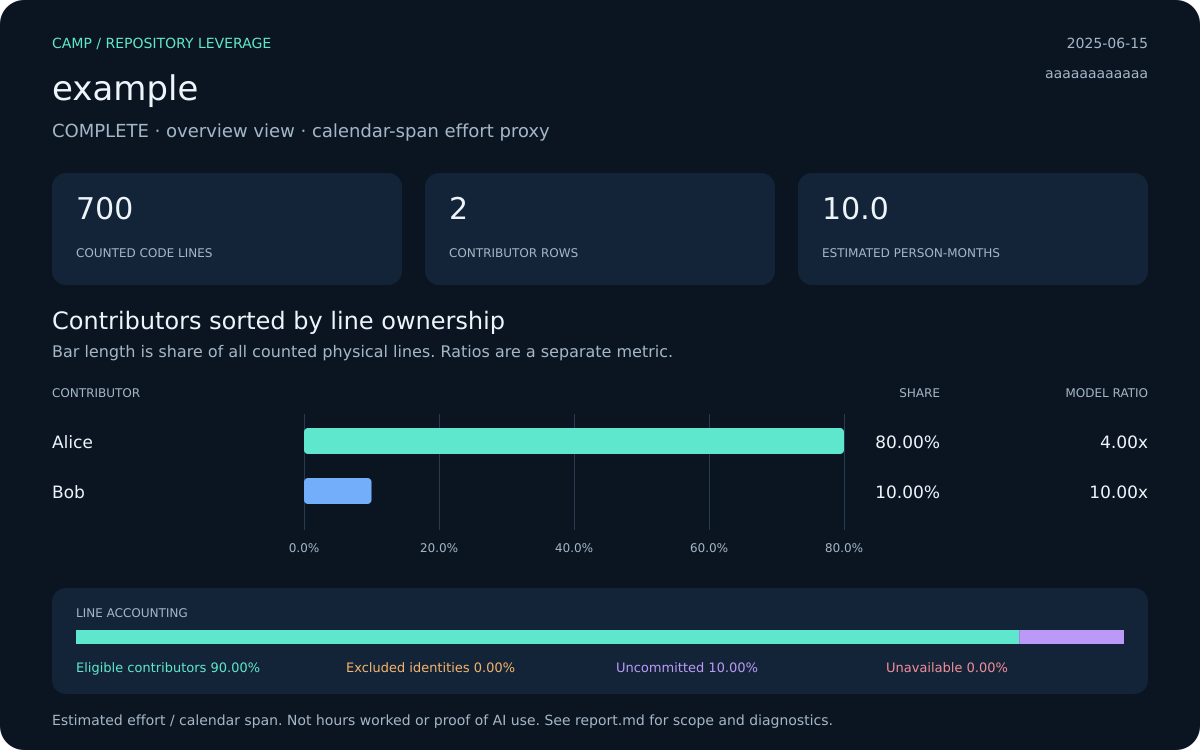
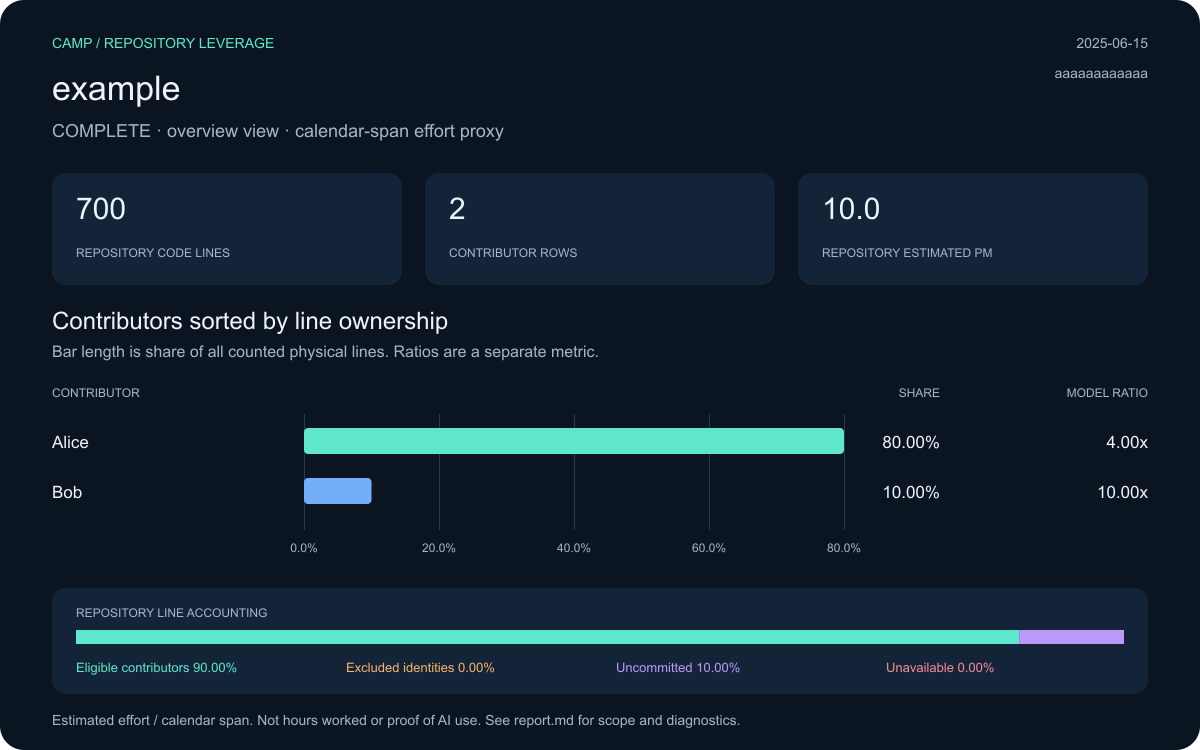
[obey-campaign:8deed8b4] fix: present summary and personal leverage as score reports
Clarify collection modes and saved-report rendering after a real-repository trial.

diff --git a/skills/leverage/scripts/render.py b/skills/leverage/scripts/render.py
@@ -31,10 +31,13 @@ def ordered(data, sort):
 
 def figure(data, theme, sort, top):
     rows = ordered(data, sort)[:min(top, 8)]
-    height = 650 + 50 * max(1, len(rows))
+    collected = data['contributors_collected']
+    height = 650 + (50 * max(1, len(rows)) if collected else 0)
+    description = (f"Sorted by {sort}. Bars encode physical-line share, not model ratio. {len(data['contributors'])} rows collected."
+                   if collected else f"{data['view'].capitalize()} score. Contributor rows were not collected; source totals and accounting cover the repository.")
     parts = [f'<svg xmlns="http://www.w3.org/2000/svg" width="1200" height="{height}" viewBox="0 0 1200 {height}" role="img" aria-labelledby="title desc">',
              '<title id="title">' + html.escape(data['repository'] + ' leverage report: ' + data['status']) + '</title>',
-             '<desc id="desc">' + html.escape(f"Sorted by {sort}. Bars encode physical-line share, not model ratio. {len(data['contributors'])} rows collected; null ratios are unavailable. Status {data['status']}.") + '</desc>',
+             '<desc id="desc">' + html.escape(f"{description} Null ratios are unavailable. Status {data['status']}.") + '</desc>',
              f'<rect width="1200" height="{height}" rx="24" fill="{theme["background"]}"/>']
 
     def text(x, y, value, size=18, color='text', anchor='start'):
@@ -50,29 +53,41 @@ def figure(data, theme, sort, top):
     text(1148, 78, (data['revision'] or 'unborn')[:12], 14, 'muted', 'end')
     text(52, 137, f"{data['status'].upper()} · {data['view']} view · calendar-span effort proxy", 18, 'muted')
     summary = data['summary']
-    cards = [(f"{summary['code_lines']:,}", 'COUNTED CODE LINES'),
-             (str(len(data['contributors'])) if data['contributors_collected'] else 'not collected', 'CONTRIBUTOR ROWS'),
-             (fmt(summary['estimated_person_months'], 1), 'ESTIMATED PERSON-MONTHS')]
+    score = data['score']
+    score_label = 'Personal' if data['view'] == 'personal' else 'Repository'
+    middle = ((str(len(data['contributors'])), 'CONTRIBUTOR ROWS') if collected else
+              (fmt(score['full_leverage'], suffix='x'), score_label.upper() + ' RATIO'))
+    cards = [(f"{summary['code_lines']:,}", 'REPOSITORY CODE LINES'), middle,
+             (fmt(summary['estimated_person_months'], 1), 'REPOSITORY ESTIMATED PM')]
     for x, (value, label) in zip((52, 425, 798), cards):
         rect(x, 173, 350, 112, 'panel', 14)
         text(x + 24, 219, value, 30)
         text(x + 24, 257, label, 12, 'muted')
-    text(52, 329, f"Contributors sorted by {'line ownership' if sort == 'ownership' else 'model ratio'}", 24)
-    text(52, 357, 'Bar length is share of all counted physical lines. Ratios are a separate metric.', 16, 'muted')
-    text(52, 397, 'CONTRIBUTOR', 12, 'muted')
-    text(940, 397, 'SHARE', 12, 'muted', 'end')
-    text(1148, 397, 'MODEL RATIO', 12, 'muted', 'end')
     maximum = max((r['share'] for r in rows), default=0)
     axis = min(1, max(.1, math.ceil(maximum * 10) / 10))
-    bottom = 430 + 50 * max(1, len(rows))
-    for tick in range(5):
-        x = 304 + tick * 540 / 4
-        rect(x, 414, 1, bottom - 414, 'grid')
-        text(x, bottom + 22, f'{axis * tick / 4:.1%}', 12, 'muted', 'middle')
-    if not rows:
-        text(52, 448, 'No contributor rows collected' if not data['contributors_collected'] else 'No surviving attributable lines', 18, 'muted')
-        if data['score']:
-            text(52, 475, 'Selected score: ' + fmt(data['score']['full_leverage'], suffix='x'), 18)
+    bottom = 430
+    if collected:
+        bottom += 50 * max(1, len(rows))
+        text(52, 329, f"Contributors sorted by {'line ownership' if sort == 'ownership' else 'model ratio'}", 24)
+        text(52, 357, 'Bar length is share of all counted physical lines. Ratios are a separate metric.', 16, 'muted')
+        text(52, 397, 'CONTRIBUTOR', 12, 'muted')
+        text(940, 397, 'SHARE', 12, 'muted', 'end')
+        text(1148, 397, 'MODEL RATIO', 12, 'muted', 'end')
+        if rows:
+            for tick in range(5):
+                x = 304 + tick * 540 / 4
+                rect(x, 414, 1, bottom - 414, 'grid')
+                text(x, bottom + 22, f'{axis * tick / 4:.1%}', 12, 'muted', 'middle')
+        else:
+            text(52, 448, 'No surviving attributable lines', 18, 'muted')
+    else:
+        text(52, 329, score_label + ' score details', 24)
+        text(52, 367, 'Effort proxy: ' + fmt(score['actual_person_months']) + ' person-months', 20)
+        if data['matched_identities'] is not None:
+            text(52, 399, f"Matched author identities: {data['matched_identities']}", 18, 'muted')
+        else:
+            text(52, 399, 'Read report.md for the recorded effort basis.', 18, 'muted')
+        text(52, 431, 'Contributor rows were not collected. Source totals and accounting cover the repository.', 16, 'muted')
     for i, row in enumerate(rows):
         y = 445 + 50 * i
         name = row['name']
@@ -82,7 +97,7 @@ def figure(data, theme, sort, top):
         text(1148, y + 3, fmt(row['leverage'], suffix='x'), 17, anchor='end')
     panel = bottom + 58
     rect(52, panel, 1096, 106, 'panel', 14)
-    text(76, panel + 29, 'LINE ACCOUNTING', 12, 'muted')
+    text(76, panel + 29, 'REPOSITORY LINE ACCOUNTING', 12, 'muted')
     x = 76
     colors = ['primary', 'excluded', 'uncommitted', 'unavailable']
     for key, color in zip(BUCKETS, colors):
@@ -104,19 +119,21 @@ def markdown(data, sort, top):
              '![Repository leverage and contributor ownership](assets/contributors.svg)', '',
              '| Measurement | Result |', '| :--- | ---: |',
              f"| Files | {s['files']:,} |", f"| Code lines | {s['code_lines']:,} |",
-             f"| Physical lines | {s['lines']:,} |", f"| Estimated effort (PM) | {fmt(s['estimated_person_months'])} |"]
+             f"| Physical lines | {s['lines']:,} |", f"| Repository estimated effort (PM) | {fmt(s['estimated_person_months'])} |"]
     if data['score']:
         lines += [f"| {'Personal' if data['view']=='personal' else 'Repository'} ratio | {fmt(data['score']['full_leverage'], suffix='x')} |",
+                  f"| Selected effort proxy (PM) | {fmt(data['score']['actual_person_months'])} |",
                   f"| Effort basis | {mdtext(data['effort_method'])} |"]
     if data['matched_identities'] is not None:
         lines += [f"| Matched author identities | {data['matched_identities']} |"]
-    lines += ['', '## Contributors', '', f"Sort: {sort}. Showing up to {top} of {len(data['contributors'])} collected rows.", '',
-              '| Contributor | Physical lines | Share | Est. PM | Span PM | Ratio |',
-              '| :--- | ---: | ---: | ---: | ---: | ---: |']
-    for row in ordered(data, sort)[:top]:
-        lines.append(f"| {mdtext(row['name'])} | {row['lines']:,} | {row['share']:.2%} | {fmt(row['estimated_person_months'])} | {fmt(row['elapsed_person_months'])} | {fmt(row['leverage'], suffix='x')} |")
+    if data['contributors_collected']:
+        lines += ['', '## Contributors', '', f"Sort: {sort}. Showing up to {top} of {len(data['contributors'])} collected rows.", '',
+                  '| Contributor | Physical lines | Share | Est. PM | Span PM | Ratio |',
+                  '| :--- | ---: | ---: | ---: | ---: | ---: |']
+        for row in ordered(data, sort)[:top]:
+            lines.append(f"| {mdtext(row['name'])} | {row['lines']:,} | {row['share']:.2%} | {fmt(row['estimated_person_months'])} | {fmt(row['elapsed_person_months'])} | {fmt(row['leverage'], suffix='x')} |")
     if not data['contributors_collected']:
-        lines += ['', 'Contributor data was not collected for this view.']
+        lines += ['', 'Contributor rows were not collected for this view; the CSV contains its header only. Source totals and line accounting cover the whole repository. Use overview mode for a contributor breakdown.']
     elif not data['contributors_complete']:
         lines += ['', f"Input was filtered: {data['omitted_contributors']} contributor rows were omitted by Camp. CSV contains the collected rows only."]
     lines += ['', '[Contributor CSV](data/contributors.csv) · [Snapshot metadata](data/snapshot.json)', '',

diff --git a/tests/test_skill.py b/tests/test_skill.py
@@ -205,7 +205,50 @@ class ReportTests(unittest.TestCase):
                                     'buckets': {key: {'lines': 0, 'share': 0, 'estimated_person_months': 0} for key in render.BUCKETS}}
         repo['report']['scope'].update(files=0, lines=0, code_lines=0, estimated_person_months=0)
         empty = normalize(repository=repo)
-        self.assertIn('No contributor rows collected', render.figure(empty, json.loads((SKILL/'assets/theme.json').read_text())['dark'], 'ownership', 10))
+        self.assertIn('EMPTY', render.figure(empty, json.loads((SKILL/'assets/theme.json').read_text())['dark'], 'ownership', 10))
+
+    def test_score_only_views_display_selected_score_without_contributor_axes(self):
+        import xml.etree.ElementTree as ET
+        theme = json.loads((SKILL/'assets/theme.json').read_text())['dark']
+        repo, _ = fixture()
+        personal = copy.deepcopy(repo)
+        personal['report']['matched_author_ids'] = ['alice@private.test']
+        for data in (normalize(repository=repo), normalize(personal=personal)):
+            for score in (4, None):
+                data['score']['full_leverage'] = score
+                svg = render.figure(data, theme, 'ownership', 10)
+                texts = [node.text for node in ET.fromstring(svg).findall('{http://www.w3.org/2000/svg}text')]
+                self.assertIn('4.00x' if score else 'unavailable', texts)
+                self.assertIn('Effort proxy: 2.50 person-months', texts)
+                self.assertIn('10.0', texts)  # Repository estimate stays separate from the selected score.
+                self.assertNotIn('SHARE', texts)
+                self.assertNotIn('MODEL RATIO', texts)
+                if data['view'] == 'personal':
+                    self.assertIn('Matched author identities: 1', texts)
+                self.assertNotIn('| Contributor |', render.markdown(data, 'ownership', 10))
+
+    def test_offline_restyle_preserves_all_measurements_without_external_commands(self):
+        import csv
+        repo, authors = fixture()
+        with tempfile.TemporaryDirectory() as temp:
+            root = Path(temp)
+            for name, source in (('repository', repo), ('contributors', authors)):
+                (root/f'{name}.json').write_text(json.dumps(source))
+            render.write_bundle(normalize(repo, authors), root/'original')
+            result = subprocess.run([
+                sys.executable, str(SKILL/'scripts/render.py'),
+                '--repository', str(root/'repository.json'), '--contributors', str(root/'contributors.json'),
+                '--output', str(root/'light'), '--theme', 'light', '--sort', 'ratio',
+            ], env={**os.environ, 'PATH': str(root/'no-tools')}, capture_output=True, text=True)
+            self.assertEqual(result.returncode, 0, result.stderr)
+            self.assertEqual((root/'original/data/snapshot.json').read_bytes(), (root/'light/data/snapshot.json').read_bytes())
+            def rows(name):
+                with (root/name/'data/contributors.csv').open() as stream:
+                    return list(csv.DictReader(stream))
+            original, light = rows('original'), rows('light')
+            self.assertEqual([r['name'] for r in light], ['Bob', 'Alice'])
+            self.assertEqual(sorted(original, key=lambda r: r['row_id']), sorted(light, key=lambda r: r['row_id']))
+            self.assertFalse((root/'light/raw').exists())
 
     def test_table_csv_svg_and_png_from_installed_copy(self):
         repo, authors = fixture()

diff --git a/README.md b/README.md
@@ -39,6 +39,14 @@ Ask your agent:
 
 The default bundle includes Markdown, the full contributor CSV, portable snapshot metadata, SVG and original raw captures. PNG is optional. Bars show physical-line ownership; ratio values remain a separate metric.
 
+| Request | Mode | What it collects |
+| :--- | :--- | :--- |
+| Repository score and contributor chart | `overview` (default) | Summary and all attributable contributor rows |
+| Repository score only | `summary` | Summary; no contributor rows |
+| One author's score | `personal --author EMAIL` | Selected score and matched-identity count; no contributor rows |
+
+Personal and summary images show the selected ratio and effort proxy. Source counts, estimated repository effort and line accounting still describe the whole repository; their CSV is header-only. Personal selectors can match several identities, so inspect the matched count before comparing with one contributor row. Contributor rows represent surviving line owners, not everyone who ever committed.
+
 You can call the scripts directly:
 
 ```sh
@@ -47,10 +55,14 @@ python3 skills/leverage/scripts/collect.py /path/to/repo --mode personal --autho
 python3 skills/leverage/scripts/collect.py /path/to/repo --mode summary --people 2
 python3 skills/leverage/scripts/render.py \
   --repository /path/to/summary.json --contributors /path/to/contributors.json \
-  --output /path/to/new-report --theme light --png
+  --output /path/to/new-report --theme light --sort ratio --png
 ```
 
 The default destination is a new sibling directory of the analyzed Git root. Use `--output` to choose another new directory outside that root. No source edits, camp creation, repository linking, commits or uploads occur. Use saved JSON to change styling without rescanning. Exit 2 means a partial report was written; inspect its diagnostics.
+
+After a default run, the saved inputs are `<report>/raw/repository.json` and `<report>/raw/contributors.json`. Pass those to `render.py` for another theme or sort order; it does not invoke Camp, Git, scc or the installer. Omit `--png` to render without any external commands. The table shows up to `--top` rows (10 by default), the SVG shows up to eight, and the CSV retains every collected row. Sorting by ratio keeps bar lengths tied to physical-line share.
+
+To rerender a personal report, use `--personal <report>/raw/personal.json`. For a summary-only report, use `--repository <report>/raw/repository.json` without `--contributors`. Use inputs from the same snapshot when combining files.
 
 ## Dependencies and bootstrap
 

diff --git a/skills/leverage/SKILL.md b/skills/leverage/SKILL.md
@@ -19,6 +19,8 @@ The default collects a repository summary and full contributor breakdown, then w
 
 Select `--mode summary` for only repository scoring, or `--mode personal --author EMAIL` for an author selection. `--people N` overrides summary team size. `--top N`, `--sort ownership|ratio` and `--theme dark|light` control presentation; raw rows remain complete. Prefer ownership order unless the user asks otherwise. Personal selectors can match several identities; report that count.
 
+Summary and personal modes show the selected score without collecting contributor rows; their CSV is header-only. Repository totals/accounting still cover the whole source tree. Use the default overview when the user wants contributor comparisons. Tables show up to `--top` rows; the SVG shows up to eight; CSV includes all collected rows.
+
 Collection bootstraps Festival when needed via `scripts/ensure-festival.sh`. Show its stderr install/update notices to the user. It verifies checksums, preserves unmanaged tools, returns the verified Camp path and does not create a camp or link the repo. Use [installation.md](references/installation.md) for missing dependencies or ownership/platform failures. To inspect without installing, run `bash "<skill-dir>/scripts/ensure-festival.sh" --check`. An explicitly supplied `--camp /absolute/path` skips bootstrap after a capability check.
 
 Git, Python 3.11+ and scc are required; provide the relevant missing-tool instruction or perform an already-authorized install. Do not install another Python distribution as a side effect. No API key or image-generation model is needed.
@@ -34,6 +36,8 @@ python3 "<skill-dir>/scripts/render.py" \
 ```
 
 Use `--personal` for a saved personal report. A new theme/top-N uses saved data. Supplied snapshots must match; do not join incompatible runs. See [output-contracts.md](references/output-contracts.md) for schema and partial/empty data behavior.
+
+For a default collected bundle, use `raw/repository.json` and `raw/contributors.json` as inputs. Personal bundles use `raw/personal.json`. Render-only mode does not invoke Camp, Git, scc or bootstrap; omit `--png` when no external commands are available.
 
 ## Interpret and deliver
 

diff --git a/skills/leverage/references/output-contracts.md b/skills/leverage/references/output-contracts.md
@@ -8,6 +8,8 @@ Exit 0 is complete or empty. Exit 2 means a valid partial bundle was produced. M
 
 Bundle: `report.md`, `assets/contributors.svg`, optional `assets/contributors.png`, `data/contributors.csv`, `data/snapshot.json`. Collection additionally writes original JSON exports, per-command stderr, `raw/diagnostics.txt` and `raw/collection.json`. Render-only mode writes no raw files and performs no scan/bootstrap.
 
+Summary and personal collection do not include contributor rows. Their CSV is header-only, and their SVG presents the selected ratio and effort proxy without contributor axes. Repository source totals, estimated effort and accounting retain repository scope in every view. Overview collects both a summary and threshold-zero contributor export. Its Markdown table respects `--top`, its SVG shows up to eight rows, and its CSV retains all collected rows.
+
 Portable schema `leverage-skill/v1` keeps display names, source times/revision, tool versions, fingerprints, accounting, selected score and effort method, nullable row metrics, omitted counts and diagnostic codes. Local paths/email IDs are omitted; row IDs are stable truncated hashes of original IDs, not a guarantee of anonymity. Raw exports still contain original identities/paths. CSV escapes leading spreadsheet formula markers in names; numeric fields retain source precision.
 
 Use a new output directory outside the source Git root. Existing render inputs can be reused for a new theme/top-N without rescoring. SVG bars encode line share on a zero-based linear axis; ratios are separately labeled. Default ordering is ownership. PNG converts the SVG using rsvg-convert and never invents or estimates chart data.

diff --git a/examples/report/report.md b/examples/report/report.md
@@ -9,8 +9,9 @@
 | Files | 2 |
 | Code lines | 700 |
 | Physical lines | 1,000 |
-| Estimated effort (PM) | 10.00 |
+| Repository estimated effort (PM) | 10.00 |
 | Repository ratio | 4.00x |
+| Selected effort proxy (PM) | 2.50 |
 | Effort basis | fixture |
 
 ## Contributors
